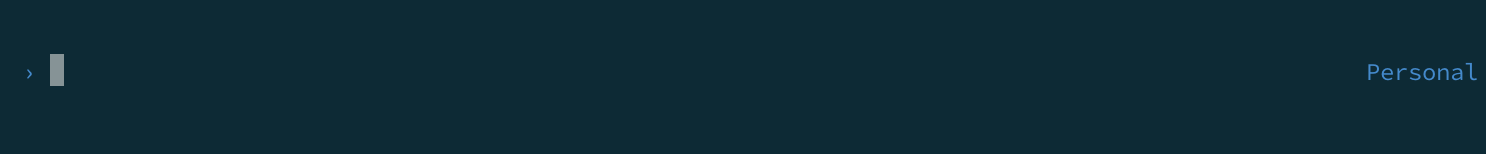
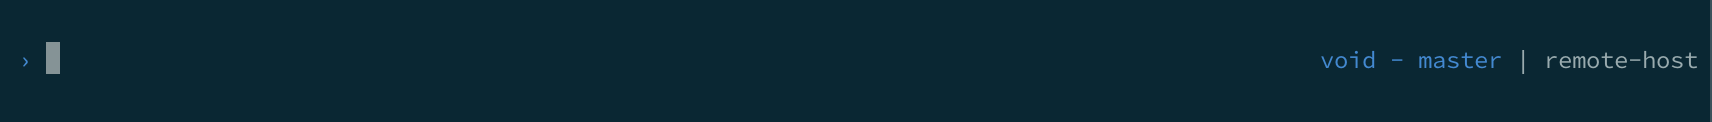
Update README.md, screenshot

Changed region(s): [[0.7739, 0.0, 1.0, 1.0], [0.0, 0.3443, 0.0619, 0.5902]]

diff --git a/README.md b/README.md
@@ -9,7 +9,7 @@ Minimalistic zsh prompt theme.
   - Status code
   - Current path (basename)
   - Git branch
-
+  - Hostname (in SSH connection)
 
 That's it.
 
